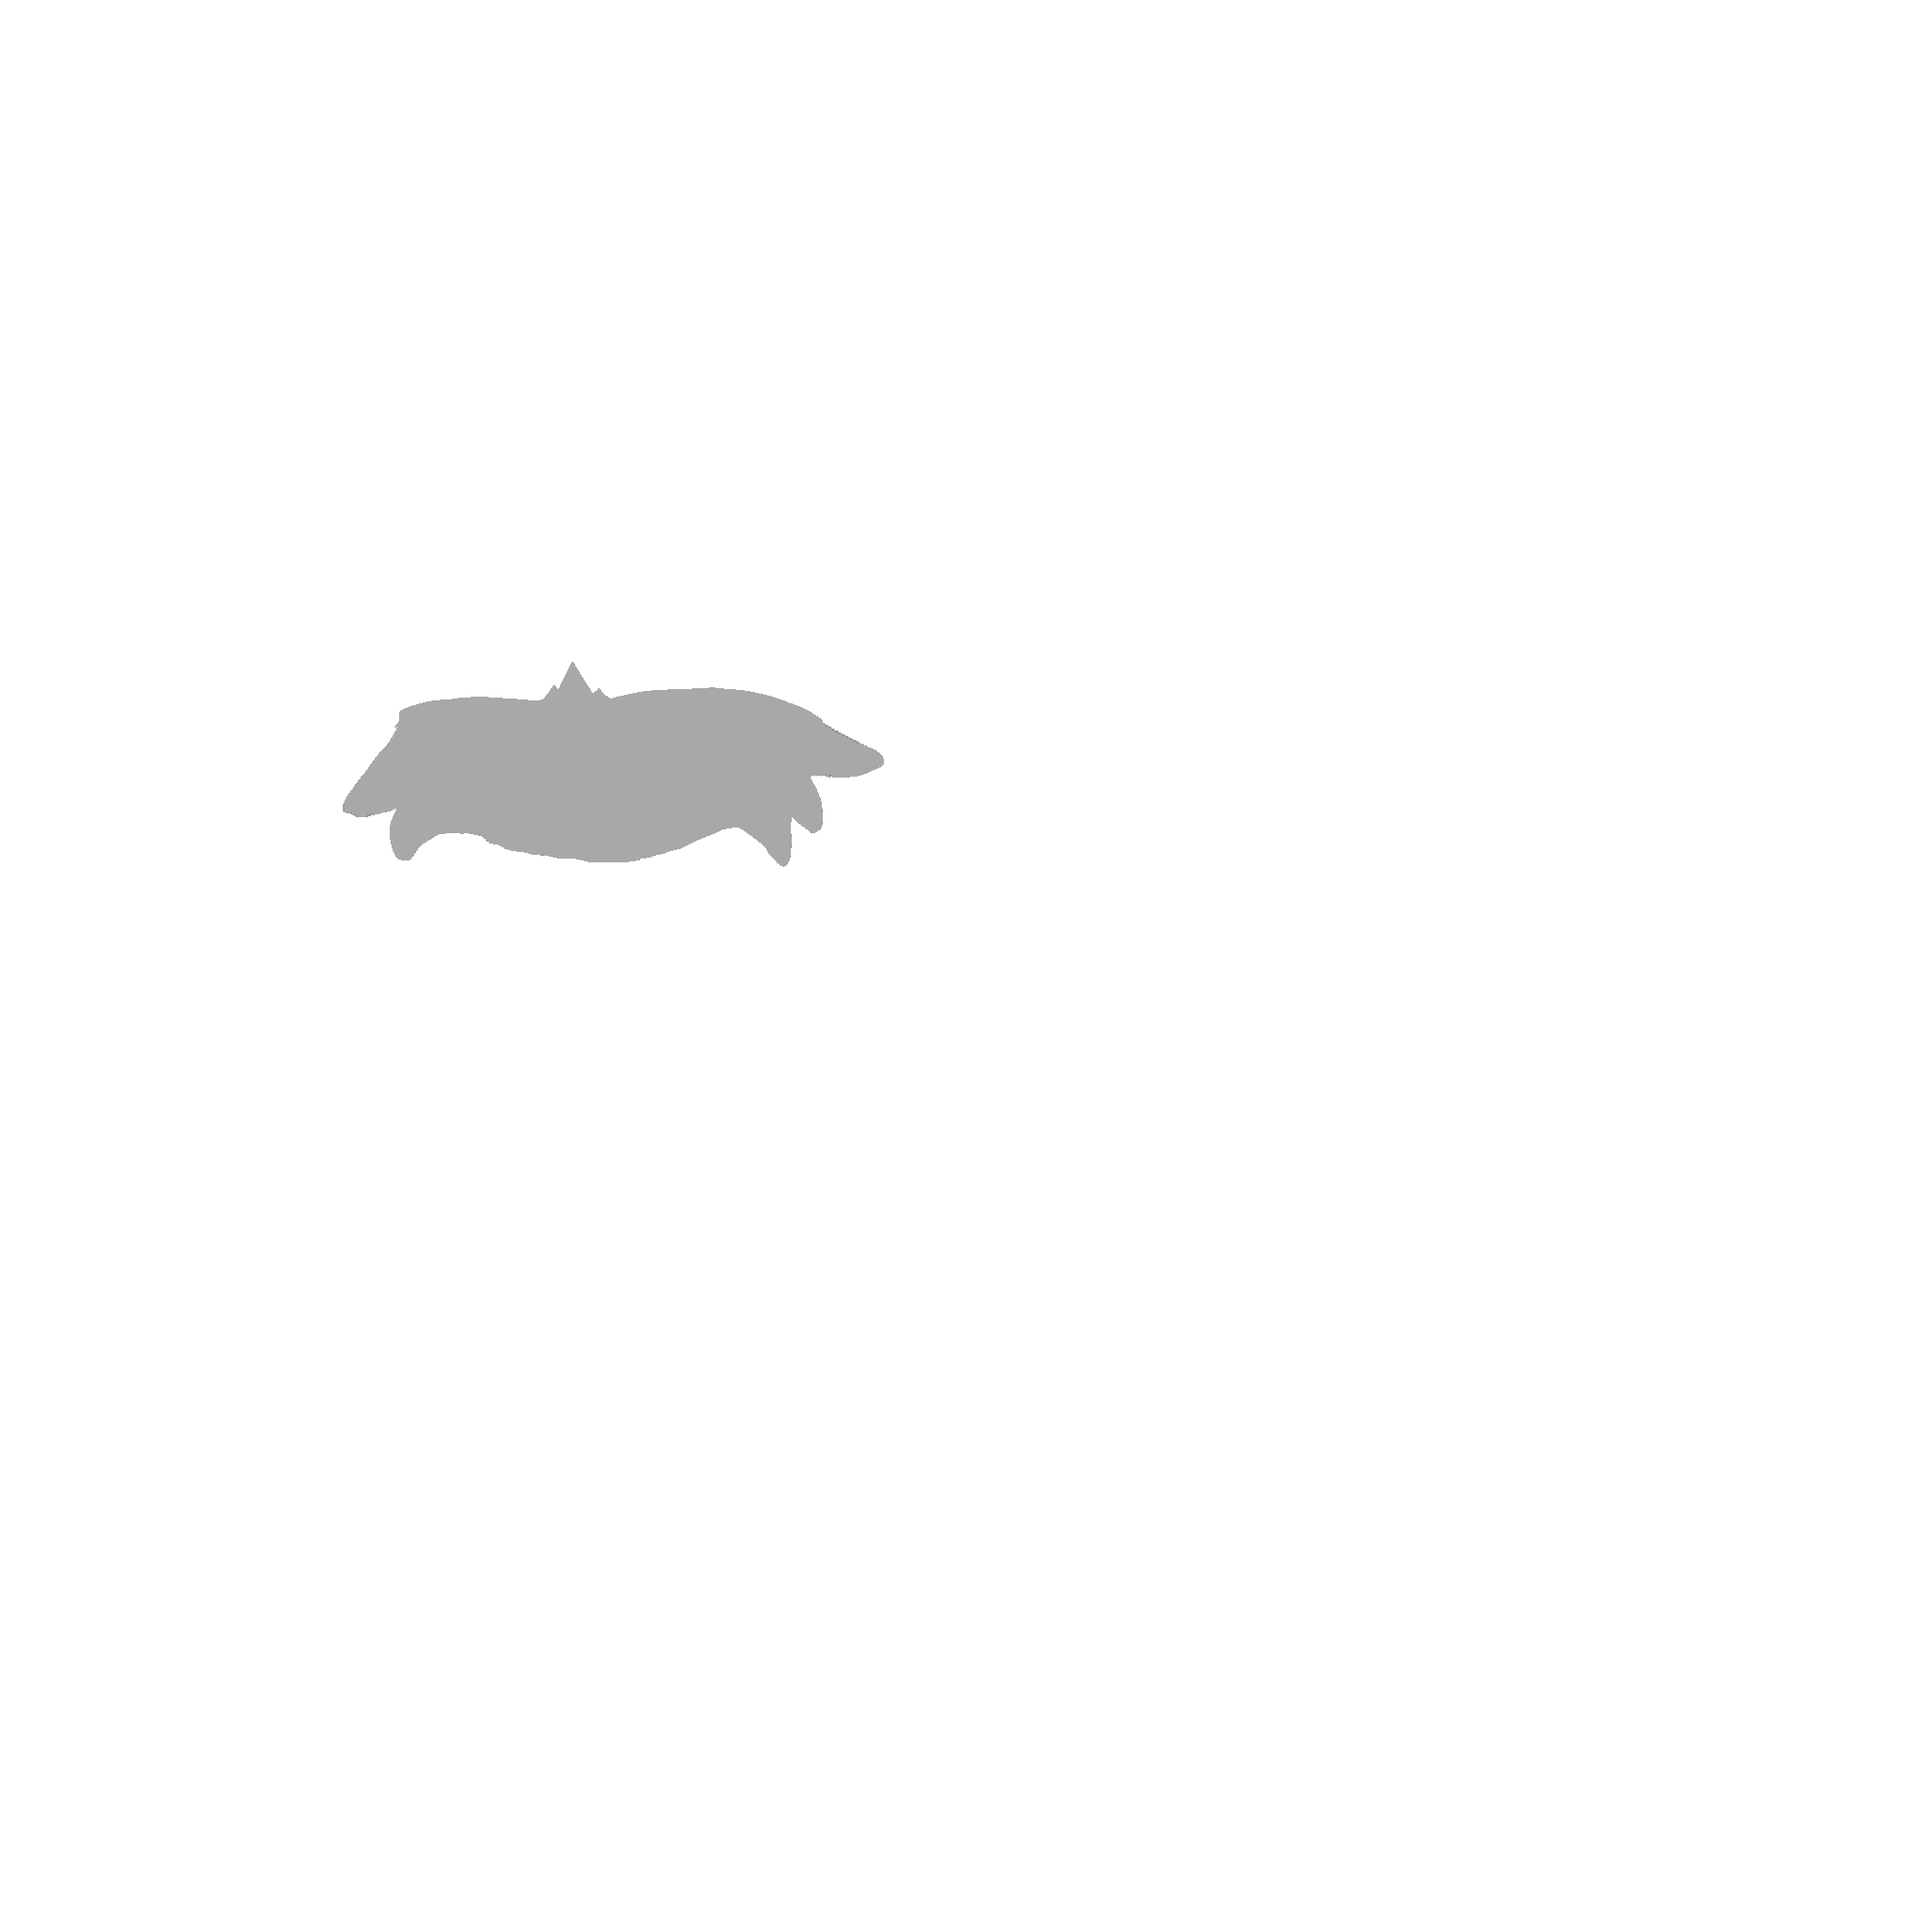
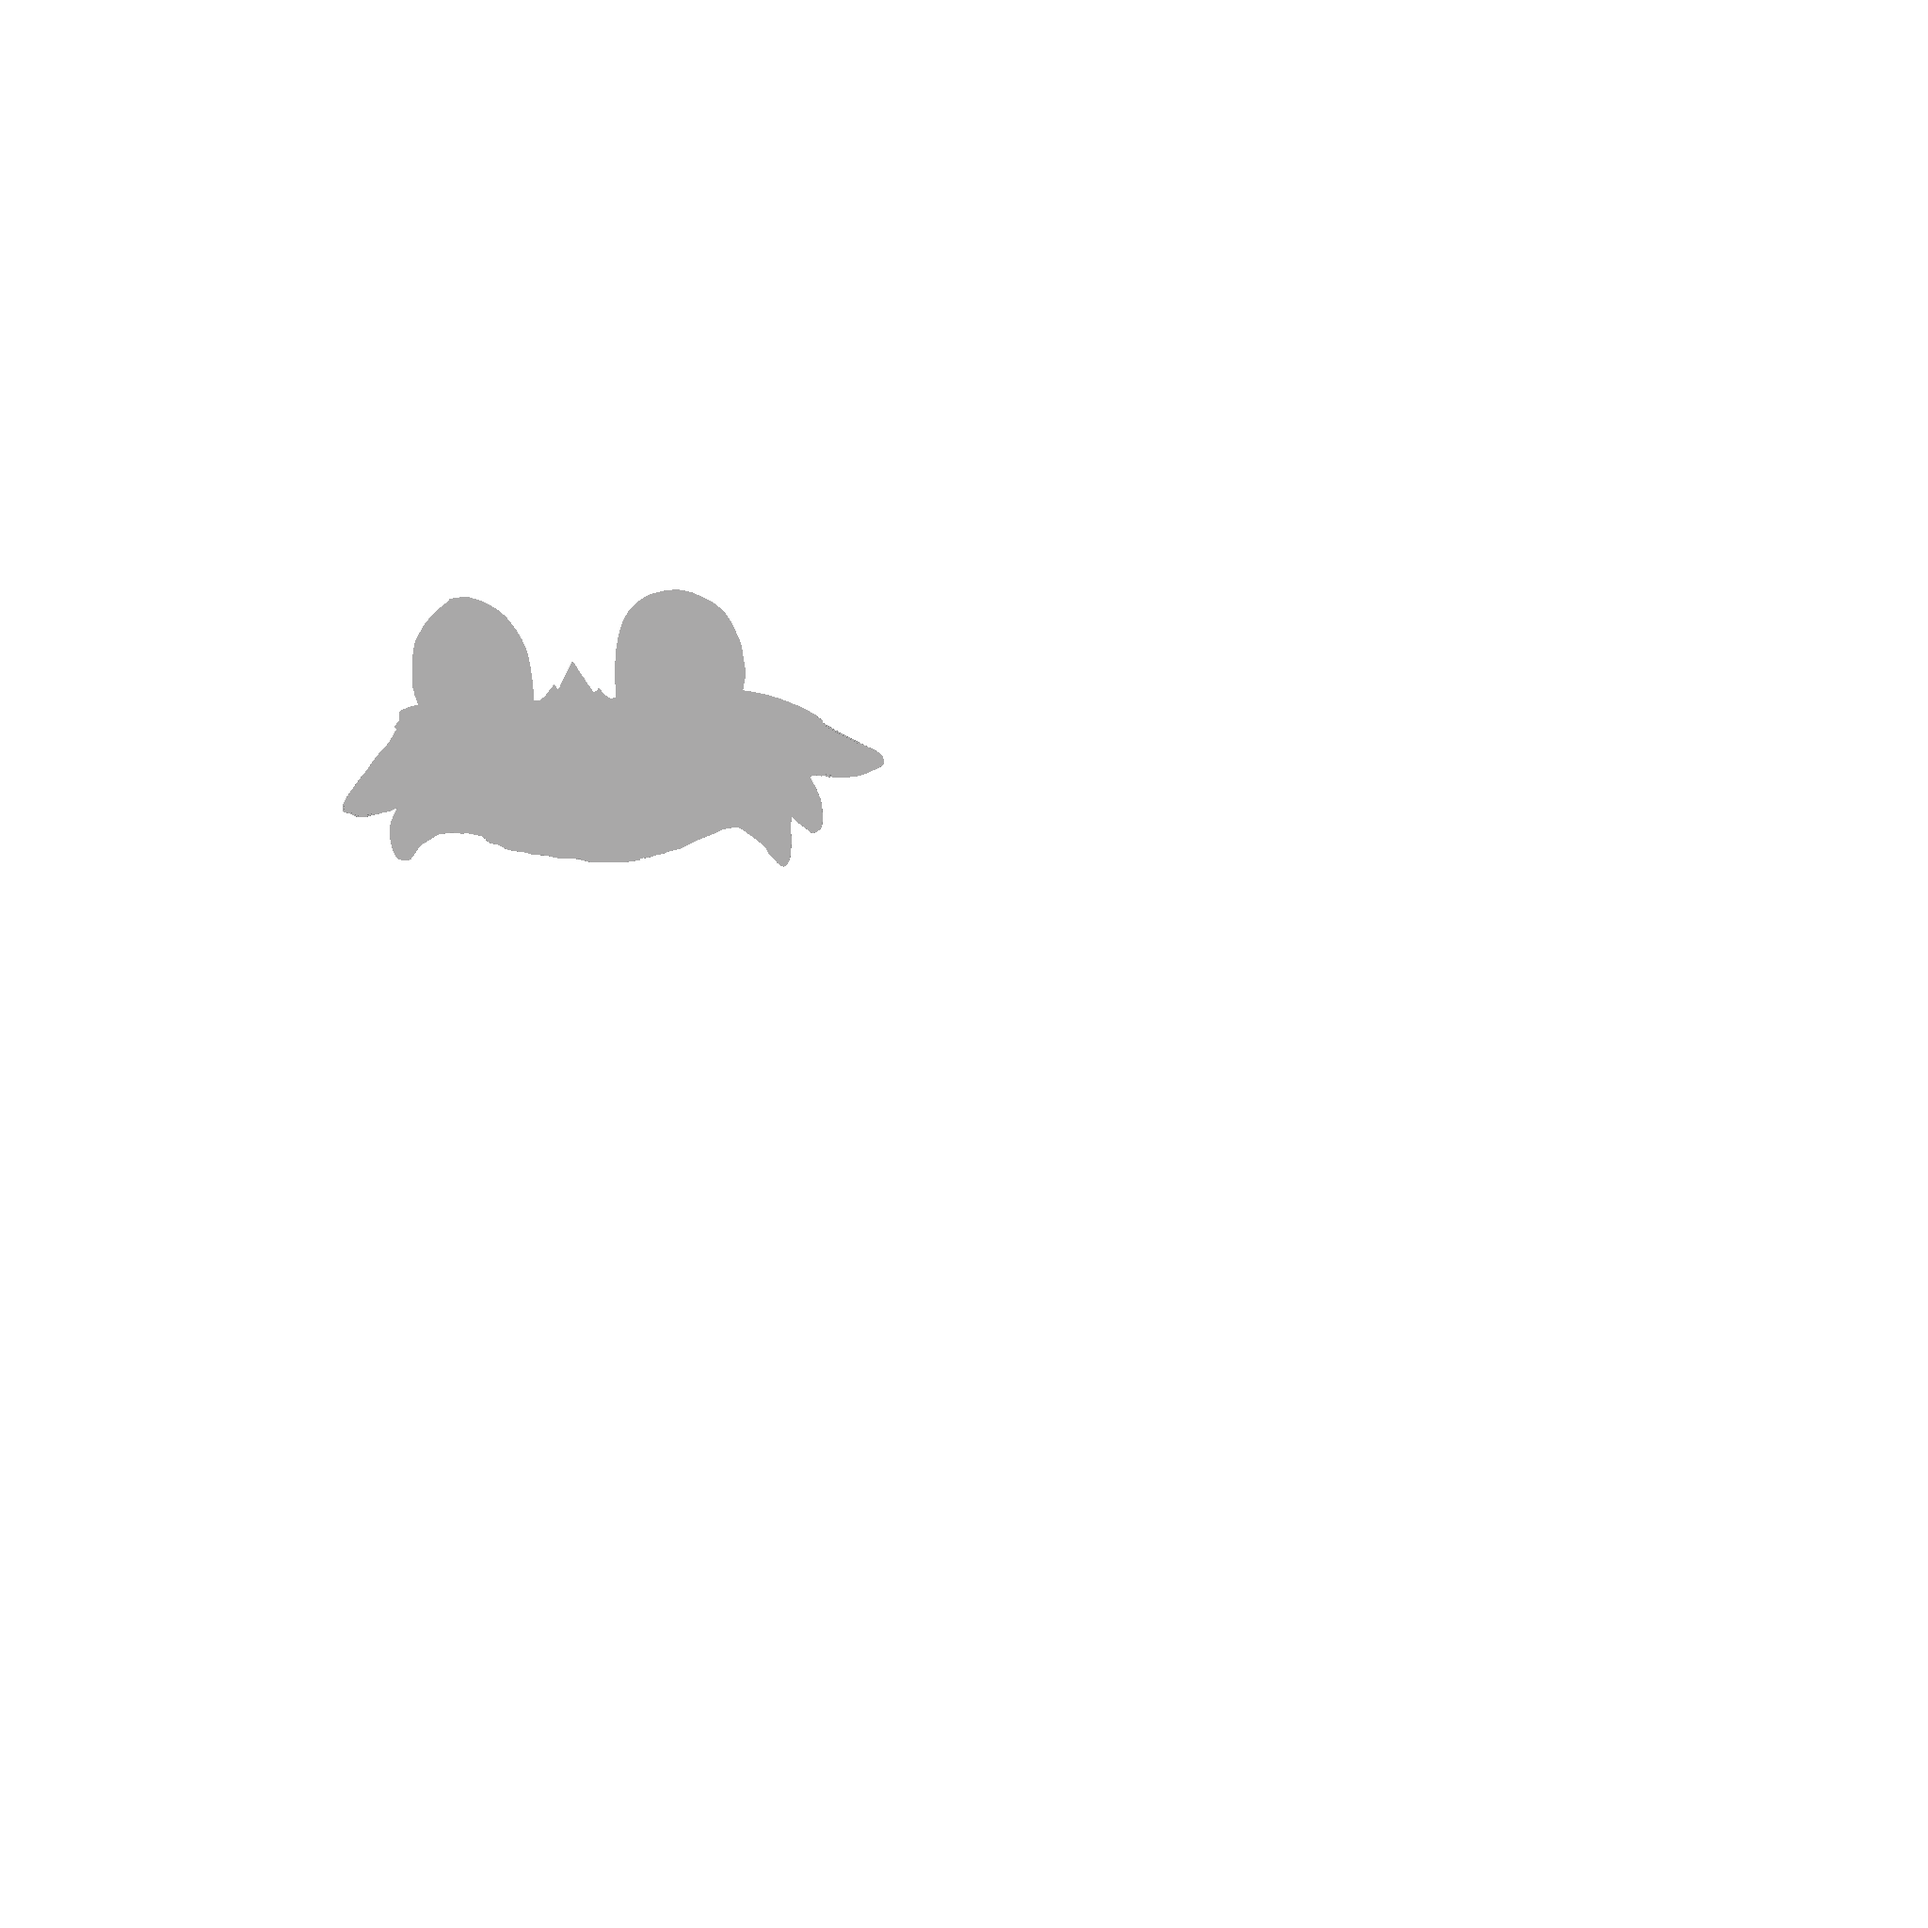
updated names

Changed region(s): [[0.3125, 0.2812, 0.4062, 0.375], [0.2188, 0.3125, 0.2812, 0.375]]

diff --git a/sketch.js b/sketch.js
@@ -13,7 +13,7 @@ let folders = {
   "Face/Mouth": { count:4, content:"line" },
   "Face/Nose": { count:3, content:"line" },
   "Hair": { count:2, content:"line base" },
-  "Head":{ count:1, content:"line base", patterns:5 , overlays:7, accents: 3},
+  "Head":{ count:1, content:"line base", patterns:5 , overlays:7, accents: 1, topaccents: 2},
   "Legs/LeftBack": { count:1, content:"line base", patterns:3 , overlays:4 },
   "Legs/LeftFront": { count:1, content:"line base", patterns:3 , overlays:4 },
   "Legs/RightBack": { count:1, content:"line base", patterns:3 , overlays:4 },
@@ -43,7 +43,7 @@ function preload() {
     for (var c of ["line", "base", "colour"])
     if(info.content.includes(c)) item[c] = loadImage(prefix+path+"/"+count+"/" +c+suffix);
 
-    for (var c of ["patterns", "overlays", "accents"])
+    for (var c of ["patterns", "overlays", "accents", "topaccents"])
     if(info.hasOwnProperty(c)) {
       item[c] = new Array(info[c]);
       for (var i = 0; i < item[c].length; i++)
